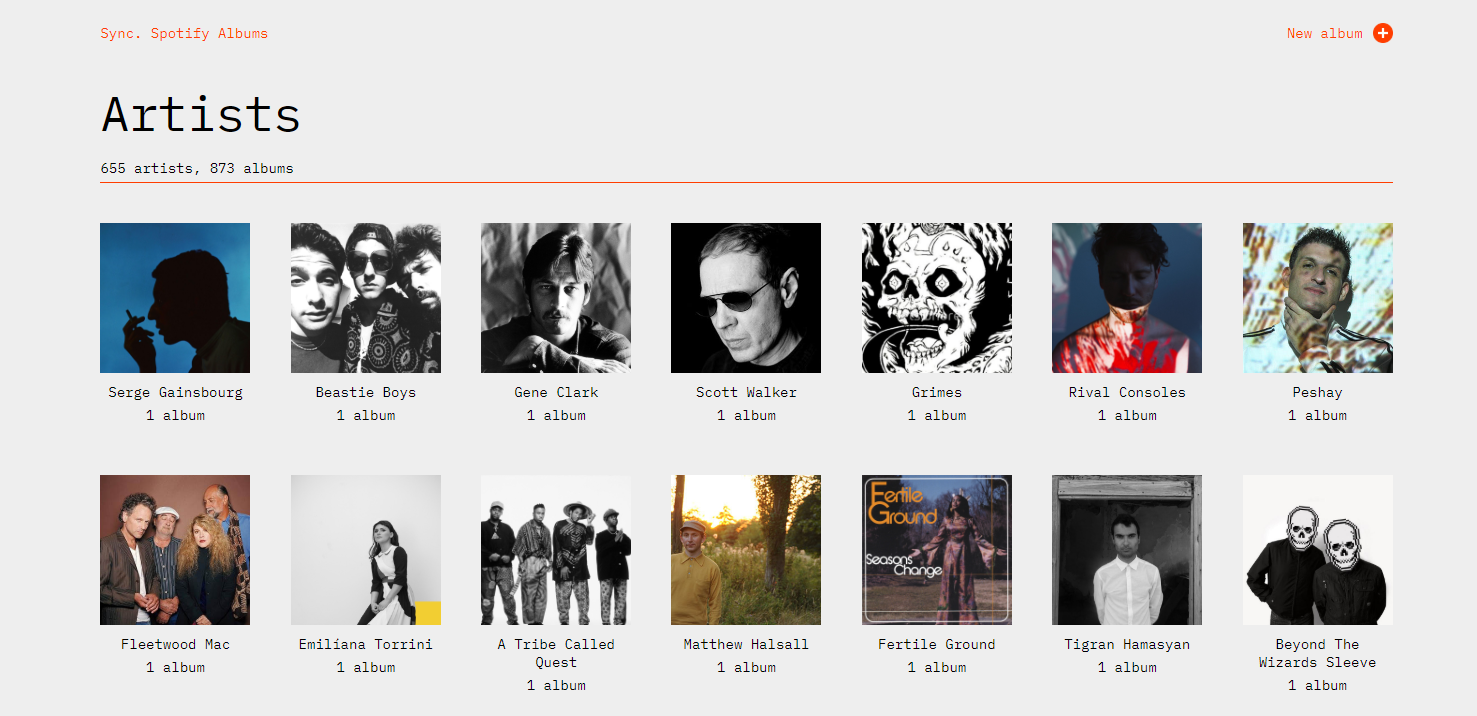
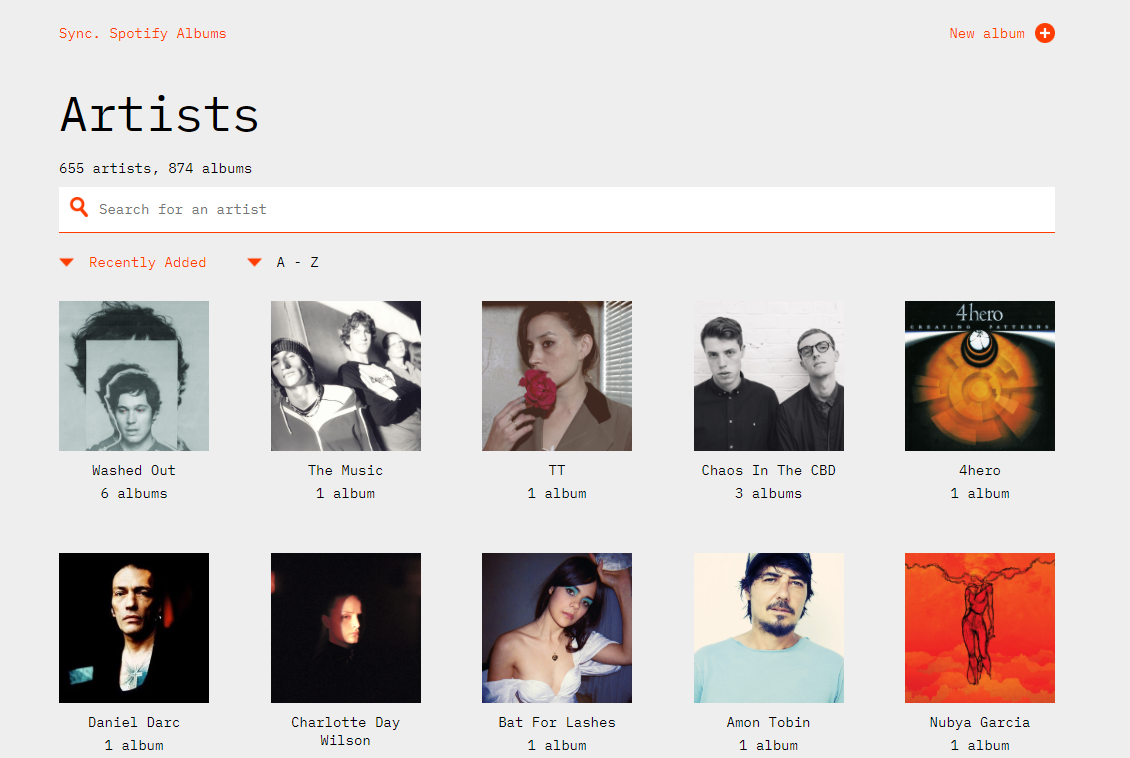
Update readme

diff --git a/README.md b/README.md
@@ -13,8 +13,11 @@ It all started when Spotify told me: *"Epic collection, friend. Your library is 
 - Link to the streaming platform for the given album
 - Synchronize your Spotify saved albums to agator9999 library (if your Spotify library is not full like mine, you can continue to save your albums and press the Sync button to update agator9999 library).
 - Add an album to agator9999 library by providing its Spotify URI
+- Search your artists
+- Sort alphabetically and by recently added
 
 ![How the library looks like](https://github.com/agatheblues/agator9999/blob/master/static/images/library.png)
+![Artist view like](https://github.com/agatheblues/agator9999/blob/master/static/images/artist.png)
 
 ## What agator9999 does not do?
 
